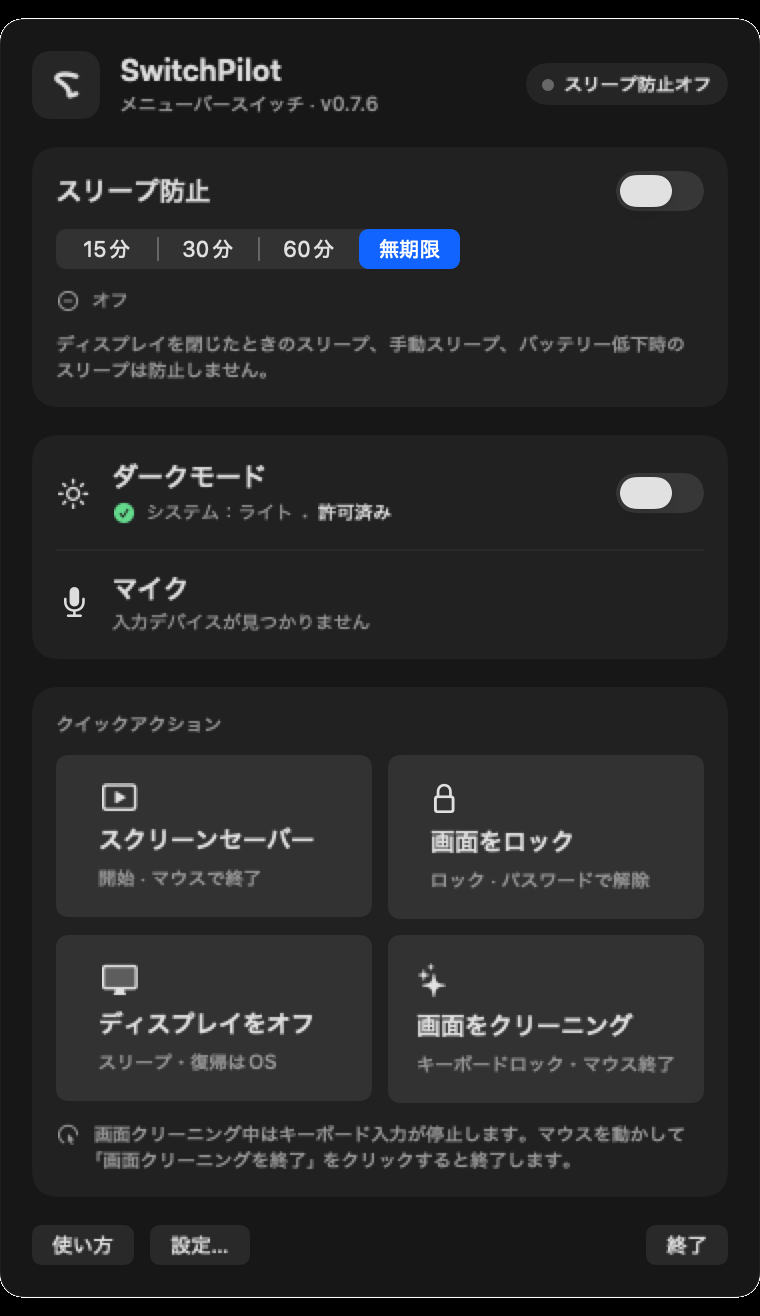
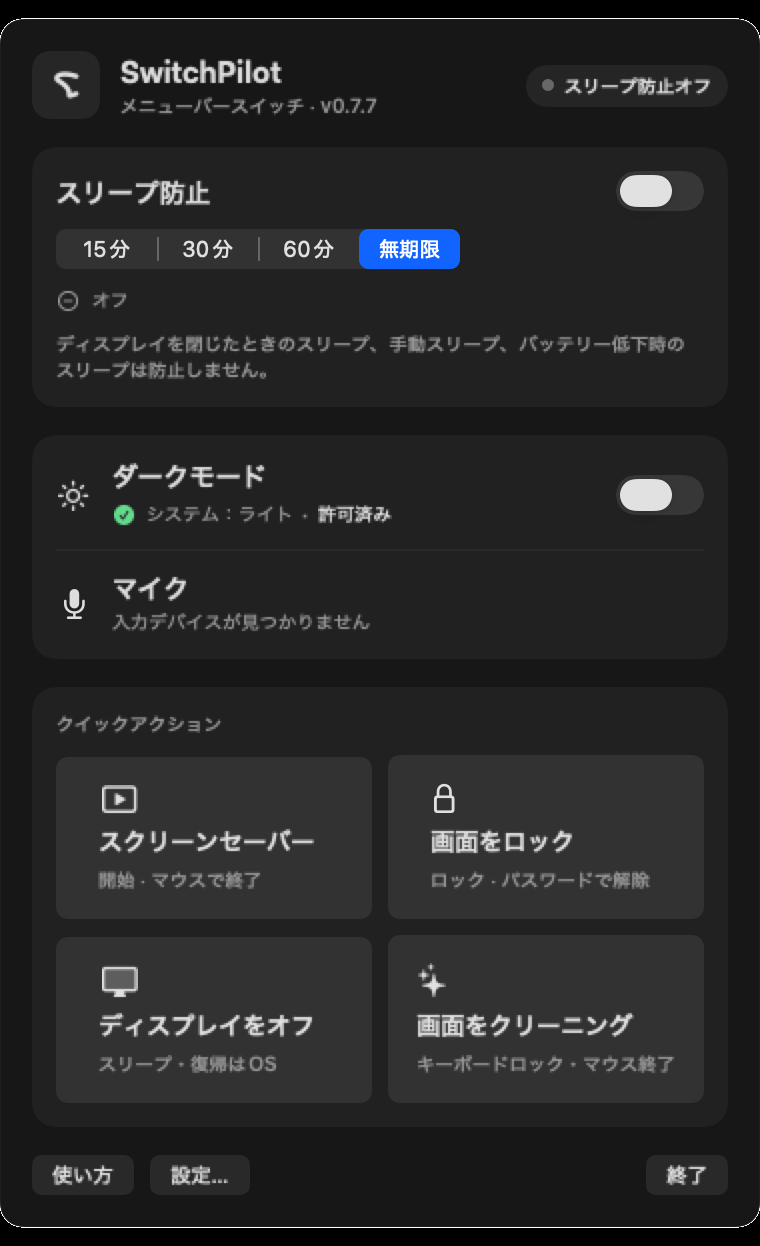
feat: prefer self-evident quick actions and remove status noise (v0.7.7)
- Remove the persistent screen-cleaning exit hint; the action label and overlay
  already explain the interaction.
- Suppress success status lines for screen saver, lock screen and display sleep.
  Failures and permission gaps still surface; screen-cleaning recovery status
  remains visible.
- Add a "self-evident over annotated" principle to the product/design docs.
- Revert panel height docs to 709 pt (782 pt with the guide) and refresh the
  four-language panel/settings screenshots.
- Bump to 0.7.7.

diff --git a/app/SwitchPilot/Sources/SwitchPilot/PanelModel.swift b/app/SwitchPilot/Sources/SwitchPilot/PanelModel.swift
@@ -62,7 +62,7 @@ final class PanelModel: ObservableObject {
     }
 
     var version: String {
-        Bundle.main.object(forInfoDictionaryKey: "CFBundleShortVersionString") as? String ?? "0.7.6"
+        Bundle.main.object(forInfoDictionaryKey: "CFBundleShortVersionString") as? String ?? "0.7.7"
     }
 
     var statusTitle: String {
@@ -358,7 +358,7 @@ final class PanelModel: ObservableObject {
                 guard let self else { return }
                 switch result {
                 case .success:
-                    self.screenSaverStatus = ScreenSaver.isRunning() ? L("已启动（进程可见）") : L("已请求启动（未确认）")
+                    self.screenSaverStatus = L("未执行")
                 case .failure(let error):
                     self.screenSaverStatus = LF("失败：%@", String(describing: error))
                 }
@@ -384,7 +384,7 @@ final class PanelModel: ObservableObject {
 
     private func presentLockFlow(permissions: LockPermissions) {
         guard permissions.canAttempt else {
-            lockStatus = L("未执行：缺少权限")
+            lockStatus = L("未执行")
             if permissions.automation != .allowed {
                 requestLockAutomation()
             } else {
@@ -397,15 +397,7 @@ final class PanelModel: ObservableObject {
         // shortcut's immediacy. Permission gating still happens above.
         do {
             try LockScreen.lock()
-            lockStatus = L("已请求锁定，确认中…")
-            Task { @MainActor in
-                try? await Task.sleep(nanoseconds: 1_000_000_000)
-                if let locked = LockScreen.isLocked() {
-                    lockStatus = locked ? L("已锁定") : L("已请求锁定（读回未锁定）")
-                } else {
-                    lockStatus = L("已请求锁定（未确认）")
-                }
-            }
+            lockStatus = L("未执行")
         } catch {
             lockStatus = LF("失败：%@", String(describing: error))
             lockPermissions = LockScreen.permissions()
@@ -470,7 +462,7 @@ final class PanelModel: ObservableObject {
             do {
                 try DisplaySleep.request()
                 DispatchQueue.main.async { [weak self] in
-                    self?.displaySleepStatus = L("已请求关闭（鼠标/按键唤醒）")
+                    self?.displaySleepStatus = L("未执行")
                 }
             } catch {
                 DispatchQueue.main.async { [weak self] in

diff --git a/app/SwitchPilot/Sources/SwitchPilot/PanelView.swift b/app/SwitchPilot/Sources/SwitchPilot/PanelView.swift
@@ -367,15 +367,6 @@ struct PanelView: View {
                 .font(.caption2)
                 .foregroundStyle(Color.secondaryInk)
             }
-            HStack(alignment: .top, spacing: 6) {
-                Image(systemName: "cursorarrow.click")
-                    .font(.caption2)
-                    .foregroundStyle(Color.secondaryInk)
-                Text(L("清洁屏幕会暂停键盘输入；移动鼠标并点击「退出清洁模式」退出。"))
-                    .font(.caption2)
-                    .foregroundStyle(Color.secondaryInk)
-                    .fixedSize(horizontal: false, vertical: true)
-            }
             if !model.screenCleaningError.isEmpty {
                 HStack(alignment: .top, spacing: 6) {
                     Image(systemName: "xmark.octagon.fill")

diff --git a/app/SwitchPilot/Sources/SwitchPilot/SettingsModel.swift b/app/SwitchPilot/Sources/SwitchPilot/SettingsModel.swift
@@ -33,7 +33,7 @@ final class SettingsModel: ObservableObject {
     }
 
     var version: String {
-        Bundle.main.object(forInfoDictionaryKey: "CFBundleShortVersionString") as? String ?? "0.7.6"
+        Bundle.main.object(forInfoDictionaryKey: "CFBundleShortVersionString") as? String ?? "0.7.7"
     }
 
     var hasAnyPermission: Bool {

diff --git a/scripts/verify-app.py b/scripts/verify-app.py
@@ -69,7 +69,7 @@ def check_plists():
     entitlements = plistlib.loads((PKG / "Entitlements.plist").read_bytes())
     if info.get("CFBundleIdentifier") != "io.github.pengxianghao21.SwitchPilot":
         raise RuntimeError("unexpected bundle id")
-    if info.get("CFBundleShortVersionString") != "0.7.6":
+    if info.get("CFBundleShortVersionString") != "0.7.7":
         raise RuntimeError(f"unexpected bundle version: {info.get('CFBundleShortVersionString')}")
     if info.get("LSUIElement") is not True:
         raise RuntimeError("LSUIElement must be true")

diff --git a/README.ja.md b/README.ja.md
@@ -4,7 +4,7 @@
 
 [![CI](https://github.com/PilotFoundry/switchpilot/actions/workflows/ci.yml/badge.svg)](https://github.com/PilotFoundry/switchpilot/actions/workflows/ci.yml)
 
-バージョン 0.7.6 · PilotFoundry が維持する、信頼できるいくつかのシステム操作に絞ったオープンソースでプライバシー重視の小さな macOS メニューバーユーティリティです。
+バージョン 0.7.7 · PilotFoundry が維持する、信頼できるいくつかのシステム操作に絞ったオープンソースでプライバシー重視の小さな macOS メニューバーユーティリティです。
 
 > このリポジトリは、初期の調査や受け入れ検証の記録を含む完全な開発履歴を保持しています。アプリのソースコードと現在の英語ドキュメントはルートにあり、過去の資料は `artifacts/`、`evidence/`、`tooling/` などのディレクトリにあります。詳しくは [docs/RESEARCH.md](docs/RESEARCH.md) をご覧ください。
 
@@ -64,14 +64,14 @@ SwitchPilot は 4 つの UI ローカライズを提供しています：
 [最新リリース](https://github.com/PilotFoundry/switchpilot/releases/latest) では、対応するタグのソースからビルドした universal（Apple Silicon + Intel）版 macOS アプリを配布しています。現在このプロジェクトには Developer ID 証明書がないため、**ad-hoc 署名・未公証** のビルドです。
 
 - 要件：macOS 14 以降
-- ファイル：`SwitchPilot-0.7.6-macos-universal-adhoc.zip`
+- ファイル：`SwitchPilot-0.7.7-macos-universal-adhoc.zip`
 - ダウンロードして展開し、`SwitchPilot.app` を `/Applications` に移動
 - 初回起動時に macOS にブロックされる場合：アプリを右クリック → **開く**
 - ターミナルを使う場合は、このアプリだけに限定して実行：
   `xattr -dr com.apple.quarantine /Applications/SwitchPilot.app`
 - Gatekeeper をシステム全体で無効にしないでください
 
-zip は `./scripts/build-release` でビルドされ、SHA-256 ファイルもリリースに添付されます（`SwitchPilot-0.7.6-macos-universal-adhoc.zip.sha256`）。これはダウンロード用の便宜的なビルドであり、Developer ID／公証済みの配布物ではありません。完全に信頼したい場合は、ソースから自分でビルドして署名してください。
+zip は `./scripts/build-release` でビルドされ、SHA-256 ファイルもリリースに添付されます（`SwitchPilot-0.7.7-macos-universal-adhoc.zip.sha256`）。これはダウンロード用の便宜的なビルドであり、Developer ID／公証済みの配布物ではありません。完全に信頼したい場合は、ソースから自分でビルドして署名してください。
 
 ## 動作環境
 

diff --git a/docs/DESIGN.md b/docs/DESIGN.md
@@ -1,6 +1,6 @@
 # UI/UX design
 
-Status: current baseline **v0.7.6**. English is canonical. Screenshots live in
+Status: current baseline **v0.7.7**. English is canonical. Screenshots live in
 `docs/images/`; all UI must be readable in light and dark appearances.
 
 ## 1. Design principles
@@ -14,6 +14,9 @@ Status: current baseline **v0.7.6**. English is canonical. Screenshots live in
 - **Quiet by default.** The app is an `LSUIElement` agent with no Dock icon. The
   panel uses a short, restrained scale/fade anchored under the menu-bar icon;
   Reduce Motion removes the scale.
+- **Self-evident over annotated.** Prefer labels, state and system behavior that
+  explain themselves. Reserve persistent copy for permissions, failures,
+  recovery and safety-critical exits.
 - **Localizable by construction.** Copy must fit English, Simplified Chinese,
   Traditional Chinese and Japanese. Language names are shown natively.
 
@@ -38,8 +41,8 @@ Status: current baseline **v0.7.6**. English is canonical. Screenshots live in
 
 ## 3. Panel structure
 
-Width: 380 pt. Normal height: about 731 pt; with the permission guide: about
-804 pt. The panel is scroll-safe on smaller displays.
+Width: 380 pt. Normal height: about 709 pt; with the permission guide: about
+782 pt. The panel is scroll-safe on smaller displays.
 
 1. **Header** — app mark/name, version, current keep-awake summary.
 2. **Keep awake** — toggle, 15/30/60/unlimited picker, readback state.
@@ -47,8 +50,8 @@ Width: 380 pt. Normal height: about 731 pt; with the permission guide: about
    capability/state.
 4. **Quick actions** — screen saver, lock screen, display sleep, screen
    cleaning. Each tile has an icon, title, short subtitle and optional badge.
-   A persistent caption below the grid explains the cleaning-mode exit: pause
-   keyboard input, move the mouse and click **Exit cleaning mode**.
+   Successful quick actions are not narrated in a status line; errors and the
+   screen-cleaning recovery state remain visible.
 5. **Permissions** — only when needed; readiness summary, grant/recheck
    actions, diagnostics disclosure.
 6. **Footer** — How to use, Settings, Quit. Permission state stays in the
@@ -136,6 +139,8 @@ See [en/BRAND.md](en/BRAND.md) for naming and trademark boundaries.
 - Never claim success when state could not be verified.
 - Use "Follow System" for the language default, not "Auto".
 - Release/download copy must state that the binary is ad-hoc and not notarized.
+- Do not narrate successful quick actions in persistent copy; show failures,
+  permission gaps and recovery instead.
 - Keep the four READMEs aligned on user-visible facts.
 
 ## 10. Current screenshots

diff --git a/README.md b/README.md
@@ -4,7 +4,7 @@
 
 [![CI](https://github.com/PilotFoundry/switchpilot/actions/workflows/ci.yml/badge.svg)](https://github.com/PilotFoundry/switchpilot/actions/workflows/ci.yml)
 
-Version 0.7.6 · An open-source, privacy-first macOS menu bar utility for a few
+Version 0.7.7 · An open-source, privacy-first macOS menu bar utility for a few
 reliable system controls, maintained by PilotFoundry.
 
 > This repository preserves the complete development history, including its
@@ -27,7 +27,7 @@ reliable system controls, maintained by PilotFoundry.
 | Lock screen | Sends the system lock shortcut, gated by Automation + Accessibility |
 | Display sleep | Uses the public `pmset displaysleepnow` command |
 | Microphone mute | Capability-aware mute for the default input device; no fake state when unsupported |
-| Screen cleaning | Full-screen overlay, keyboard input suspended, persistent exit hint, mouse exit, hidden last-resort timeout |
+| Screen cleaning | Full-screen overlay, keyboard input suspended, mouse exit, hidden last-resort timeout |
 | Login at start | Optional `SMAppService` login item, controlled in Settings |
 | Global hotkeys | Fixed `⌃⌥⌘K` / `⌃⌥⌘S` shortcuts, disabled by default |
 | Localization | English, Simplified Chinese, Traditional Chinese and Japanese; system language by default, with an in-app language override and restart |
@@ -80,7 +80,7 @@ asset is a universal (Apple Silicon + Intel) macOS app built from the tagged sou
 does not currently have a Developer ID certificate.
 
 - Requirement: macOS 14 or later
-- Asset: `SwitchPilot-0.7.6-macos-universal-adhoc.zip`
+- Asset: `SwitchPilot-0.7.7-macos-universal-adhoc.zip`
 - Download, unzip, move `SwitchPilot.app` to `/Applications`
 - On first launch macOS may block it: **right-click the app → Open**
 - If you prefer a terminal command, limit it to this app:
@@ -88,7 +88,7 @@ does not currently have a Developer ID certificate.
 - Do not disable Gatekeeper system-wide
 
 The zip is built by `./scripts/build-release`; its SHA-256 checksum is published
-next to the asset (`SwitchPilot-0.7.6-macos-universal-adhoc.zip.sha256`). This is a convenience build, not a Developer ID/notarized
+next to the asset (`SwitchPilot-0.7.7-macos-universal-adhoc.zip.sha256`). This is a convenience build, not a Developer ID/notarized
 distribution. Build from source if you want to inspect or sign it yourself.
 
 ## Requirements

diff --git a/README.zh-CN.md b/README.zh-CN.md
@@ -4,7 +4,7 @@
 
 [![CI](https://github.com/PilotFoundry/switchpilot/actions/workflows/ci.yml/badge.svg)](https://github.com/PilotFoundry/switchpilot/actions/workflows/ci.yml)
 
-版本 0.7.6 · 由 PilotFoundry 维护的开源、隐私优先 macOS 菜单栏工具，只保留少数可靠、低权限的系统控制。
+版本 0.7.7 · 由 PilotFoundry 维护的开源、隐私优先 macOS 菜单栏工具，只保留少数可靠、低权限的系统控制。
 
 > 本仓库保留完整开发历史，包括早期研究、失败实验和现场验收记录。应用源码与当前英文文档位于根目录；历史材料在 `artifacts/`、`evidence/`、`tooling/` 等目录，详见 [docs/RESEARCH.md](docs/RESEARCH.md)。
 
@@ -23,7 +23,7 @@
 | 锁定屏幕 | 发送系统锁屏快捷键；需要 Automation + 辅助功能 |
 | 关闭显示器 | 调用公开命令 `pmset displaysleepnow` |
 | 麦克风静音 | 按默认输入设备能力静音；不支持时诚实提示，不伪造状态 |
-| 屏幕清洁 | 全屏遮罩，暂停键盘输入，面板内提示退出方式，鼠标点击退出，内部保留最后兜底 |
+| 屏幕清洁 | 全屏遮罩，暂停键盘输入，鼠标点击退出，内部保留最后兜底 |
 | 登录时启动 | 可选 `SMAppService` 登录项，由设置控制 |
 | 全局快捷键 | 固定 `⌃⌥⌘K` / `⌃⌥⌘S`，默认关闭 |
 | 多语言 | English、简体中文、繁體中文、日本語；默认跟随系统，也可在设置中覆盖并重启应用 |
@@ -64,7 +64,7 @@ SwitchPilot 提供四套 UI 本地化：
 Release 提供由对应 tag 源码构建的 universal（Apple Silicon + Intel）macOS 应用。当前项目没有 Developer ID 证书，因此它是 **ad-hoc 签名、未公证** 的版本。
 
 - 要求：macOS 14 或更高
-- 文件：`SwitchPilot-0.7.6-macos-universal-adhoc.zip`
+- 文件：`SwitchPilot-0.7.7-macos-universal-adhoc.zip`
 - 下载、解压后把 `SwitchPilot.app` 放到 `/Applications`
 - 首次打开可能被 macOS 拦截：右键点击应用 → **打开**
 - 如使用终端，只对该应用执行：

diff --git a/README.zh-Hant.md b/README.zh-Hant.md
@@ -4,7 +4,7 @@
 
 [![CI](https://github.com/PilotFoundry/switchpilot/actions/workflows/ci.yml/badge.svg)](https://github.com/PilotFoundry/switchpilot/actions/workflows/ci.yml)
 
-版本 0.7.6 · 由 PilotFoundry 維護的開源、隱私優先 macOS 選單列工具，只保留少數可靠、低權限的系統控制。
+版本 0.7.7 · 由 PilotFoundry 維護的開源、隱私優先 macOS 選單列工具，只保留少數可靠、低權限的系統控制。
 
 > 本儲存庫保留完整開發歷史，包括早期研究、失敗實驗和現場驗收記錄。應用程式原始碼與目前英文文件位於根目錄；歷史材料在 `artifacts/`、`evidence/`、`tooling/` 等目錄，詳見 [docs/RESEARCH.md](docs/RESEARCH.md)。
 
@@ -64,14 +64,14 @@ SwitchPilot 提供四套 UI 本地化：
 [最新 Release](https://github.com/PilotFoundry/switchpilot/releases/latest) 提供由對應 tag 原始碼建置的 universal（Apple Silicon + Intel）macOS 應用。目前專案沒有 Developer ID 憑證，因此它是 **ad-hoc 簽名、未公證** 的版本。
 
 - 需求：macOS 14 或以上
-- 檔案：`SwitchPilot-0.7.6-macos-universal-adhoc.zip`
+- 檔案：`SwitchPilot-0.7.7-macos-universal-adhoc.zip`
 - 下載、解壓縮後把 `SwitchPilot.app` 放到 `/Applications`
 - 首次開啟可能被 macOS 阻擋：右鍵點擊應用程式 → **打開**
 - 若使用終端機，只對該應用程式執行：
   `xattr -dr com.apple.quarantine /Applications/SwitchPilot.app`
 - 不要全域關閉 Gatekeeper
 
-zip 由 `./scripts/build-release` 建置，SHA-256 檔案會隨 release 一起提供（`SwitchPilot-0.7.6-macos-universal-adhoc.zip.sha256`）。這是方便下載的建置，不是 Developer ID／公證發佈；如需完全可信，請自行從原始碼建置並簽名。
+zip 由 `./scripts/build-release` 建置，SHA-256 檔案會隨 release 一起提供（`SwitchPilot-0.7.7-macos-universal-adhoc.zip.sha256`）。這是方便下載的建置，不是 Developer ID／公證發佈；如需完全可信，請自行從原始碼建置並簽名。
 
 ## 環境要求
 

diff --git a/docs/PRD.md b/docs/PRD.md
@@ -1,6 +1,6 @@
 # Product requirements
 
-Status: current baseline **v0.7.6** (2026-10-18). English is the canonical
+Status: current baseline **v0.7.7** (2026-10-18). English is the canonical
 source for this document.
 
 ## 1. Problem
@@ -72,16 +72,18 @@ See [CORE.md](CORE.md) for the admission rules.
 
 ## 6. UX requirements
 
-- Panel width 380 pt; normal height about 731 pt, guided/permission state up to
-  about 804 pt.
+- Panel width 380 pt; normal height about 709 pt, guided/permission state up to
+  about 782 pt.
 - Settings is a separate window about 460 pt wide.
 - Controls use standard AppKit/SwiftUI buttons, toggles, pickers and menus.
 - Light and dark mode meet the contrast tokens checked by `make smoke`.
 - The menu-bar icon is a template image and does not use color as the only
   state indicator.
 - Permission-required actions are disabled or explained, never fake success.
-- Screen cleaning must show a visible mouse exit and a persistent in-panel hint
-  explaining how to exit; it must not offer a keyboard exit by design.
+- Screen cleaning must show a visible mouse exit and must not offer a keyboard
+  exit by design.
+- Do not add persistent copy for successful quick actions. Surface failures,
+  permission gaps and screen-cleaning recovery only.
 - Language names are shown in their own language; the current selection is
   visible; a **Quit and Reopen** action is available.
 

diff --git a/docs/CORE.md b/docs/CORE.md
@@ -1,6 +1,6 @@
 # Core principles
 
-Status: current baseline **v0.7.6**. This document defines SwitchPilot's product
+Status: current baseline **v0.7.7**. This document defines SwitchPilot's product
 boundary. The implementation-level admission checklist lives in
 [en/CORE.md](en/CORE.md).
 
@@ -45,6 +45,8 @@ not the product scope.
     login, hardware and release acceptance. Unexecuted manual checks stay
     pending.
 
+11. **Self-evident over annotated.** Controls, state and system behavior should explain themselves. Do not add persistent copy for successful quick actions or for what a label already says; reserve text for permissions, failures, recovery and safety-critical exits.
+
 ## Included scope
 
 - Keep awake, timed or unlimited
@@ -53,8 +55,8 @@ not the product scope.
 - Lock screen, gated by Automation and Accessibility
 - Display sleep through `pmset displaysleepnow`
 - Capability-aware microphone mute
-- Screen cleaning with a real keyboard event tap, a persistent in-panel exit
-  hint, mouse exit and hidden five-minute failsafe
+- Screen cleaning with a real keyboard event tap, mouse exit and hidden
+  five-minute failsafe
 - Optional login item through `SMAppService`
 - Fixed global hotkeys, disabled by default
 - English, Simplified Chinese, Traditional Chinese and Japanese UI, following

diff --git a/docs/en/TESTING.md b/docs/en/TESTING.md
@@ -44,7 +44,7 @@ state. Do not record a check as passed if it was not executed.
 | Lock screen | Automation + Accessibility, lock, password unlock |
 | Display sleep | Screen sleeps; wake behavior follows system settings |
 | Microphone | Mute/unmute on supported input; unsupported explanation |
-| Screen cleaning | Overlay, keyboard suspended, visible mouse-exit hint, mouse exit, no countdown in normal mode, hidden timeout behavior |
+| Screen cleaning | Overlay, keyboard suspended, mouse exit, no countdown in normal mode, hidden timeout behavior |
 | Login item | Register/unregister, logout/reboot launch |
 | Hotkeys | Default off, enable, conflict error, disable, real key trigger |
 | Settings | Revoke disclosure, advanced reset confirmation, no automatic tccutil; Command-W and Escape close the window |
@@ -56,7 +56,7 @@ state. Do not record a check as passed if it was not executed.
 ## Release artifact checks
 
 ```sh
-VERSION=0.7.6
+VERSION=0.7.7
 ZIP=dist/SwitchPilot-${VERSION}-macos-universal-adhoc.zip
 shasum -a 256 -c "$ZIP.sha256"
 unzip -q "$ZIP"
